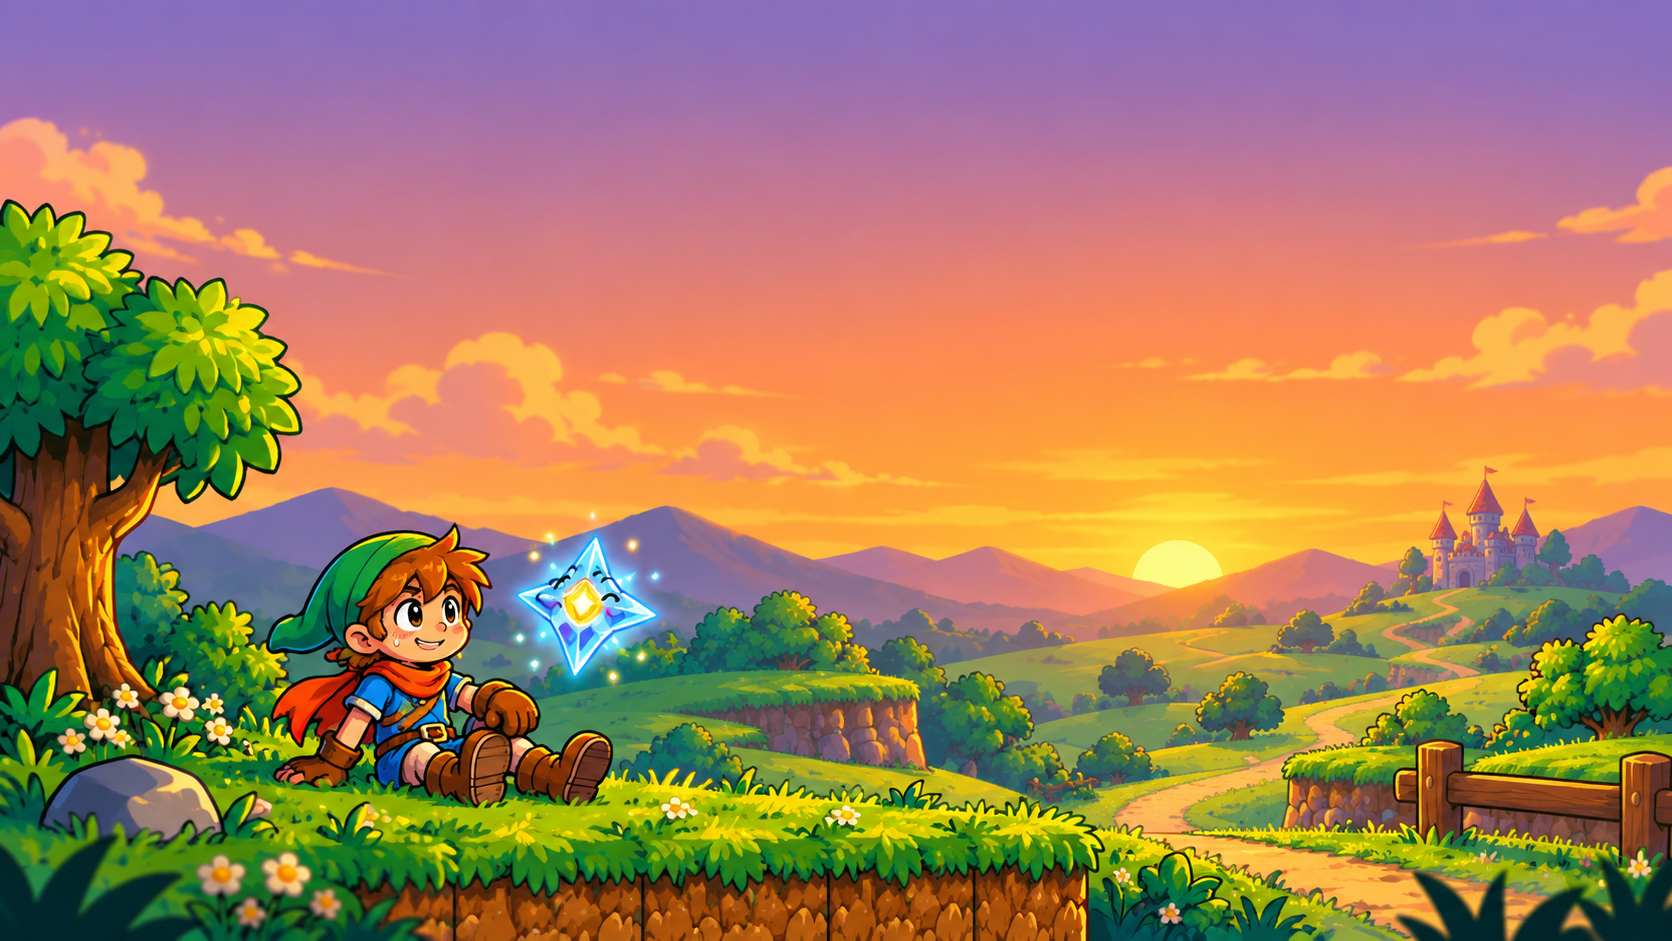
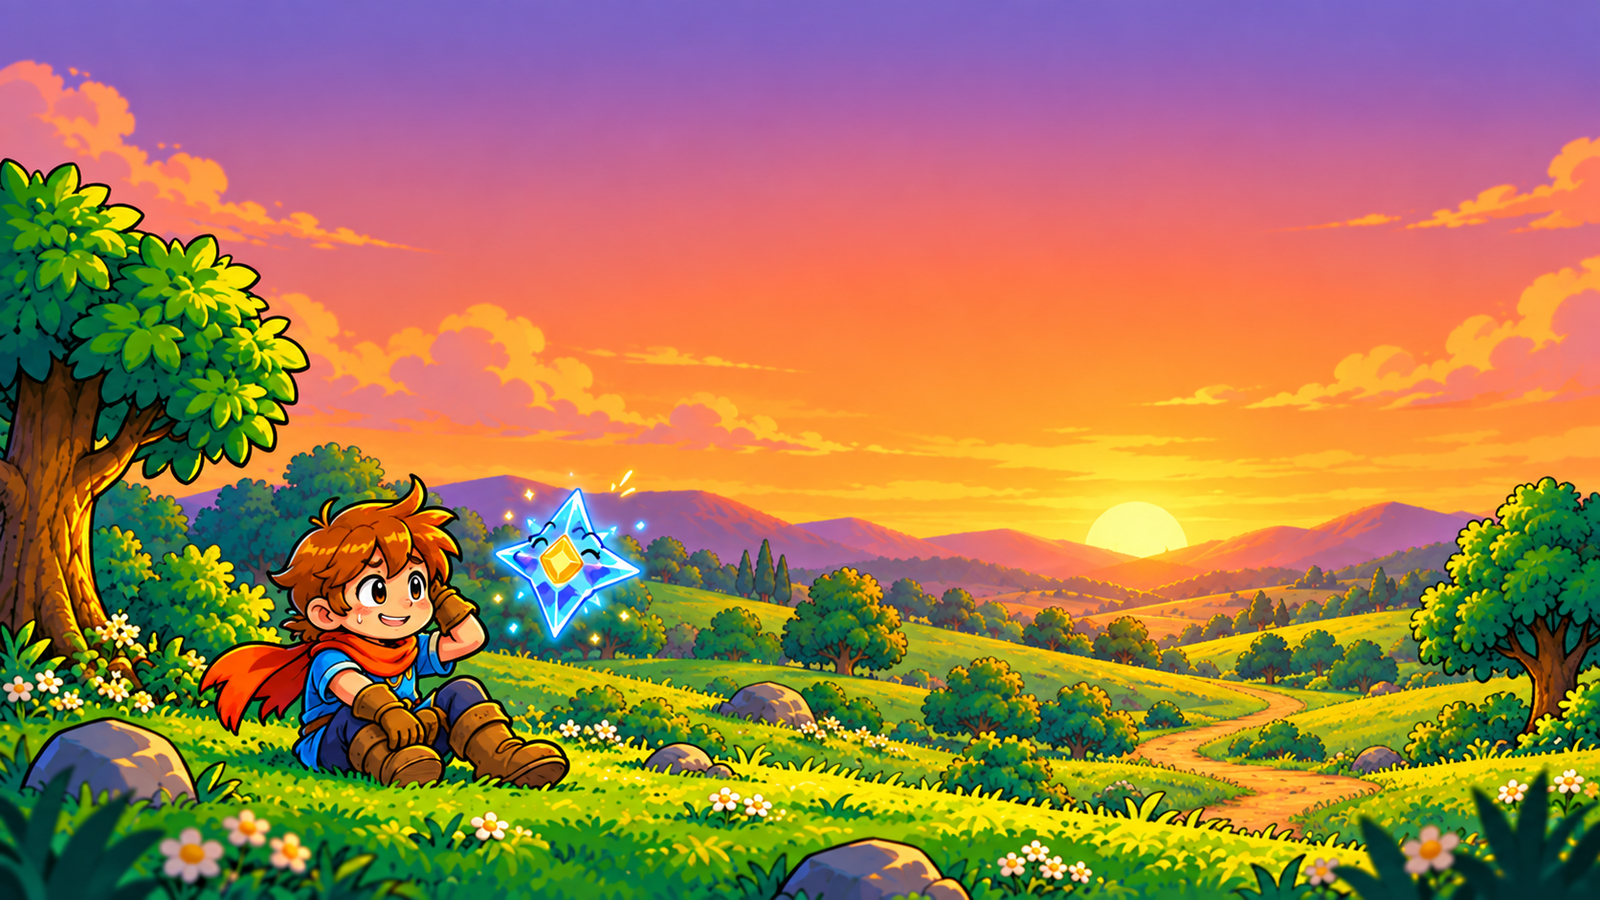
ハルの冒険: ゲームオーバーの一枚絵を描き直し(帽子とお城を外した)

diff --git a/haru/ex1017.js b/haru/ex1017.js
@@ -156,7 +156,7 @@ if (typeof EN_DICT !== 'undefined') for (const k in XF) { EN_DICT[XF_NAME[k]] = 
 if (typeof zkKind === 'function') { const _zkKind17 = zkKind; zkKind = k => (XF[k] && XF[k].strong ? ['つよい', '#ff8a4a'] : XF[k] && XF[k].rare ? ['めずらしい', '#ffe14d'] : _zkKind17(k)); }
 
 // 絵(ChatGPT: xf_<敵>_<0..2>.png・g7_*.png・ill_gameover.png)
-const XF_V = '20261017a';
+const XF_V = '20261017c';
 const XF_ART = ['ill_gameover', 'g7_bird_0', 'g7_bird_1', 'g7_gondola', 'g7_station', 'g7_pod_0', 'g7_pod_1', 'g7_bucket', 'g7_pulley', 'g7_lever_0', 'g7_lever_1', 'g7_bridge', 'g7_vent', 'g7_flame',
   'g7_wall', 'g7_roller', 'g7_web', 'g7_steam', 'g7_lid', 'g7_cog', 'g7_vhang_0', 'g7_vhang_1', 'g7_vhang_2', 'g7_vtile', 'g7_vtop', 'g7_balloon_0', 'g7_balloon_1', 'g7_1up_0', 'g7_1up_1', 'g7_1uppiece'];
 for (const k in XF) for (let f = 0; f < 3; f++) XF_ART.push('xf_' + k + '_' + f);

diff --git a/haru/index.html b/haru/index.html
@@ -29,7 +29,7 @@
 <script src="story5.js?v=20261017b"></script>
 <script src="game.js?v=20261017b"></script>
 <script src="ex1016.js?v=20261017b"></script>
-<script src="ex1017.js?v=20261017b"></script>
+<script src="ex1017.js?v=20261017c"></script>
 <script src="story1017.js?v=20261017b"></script>
 <a href="/blog/android-testers-6apps.html" style="position:fixed;left:50%;bottom:calc(2px + env(safe-area-inset-bottom));transform:translateX(-50%);font:11px sans-serif;color:#fff;opacity:.65;text-decoration:underline;z-index:5;white-space:nowrap">Android のテスター募集(ストア版)</a>
 </body>
